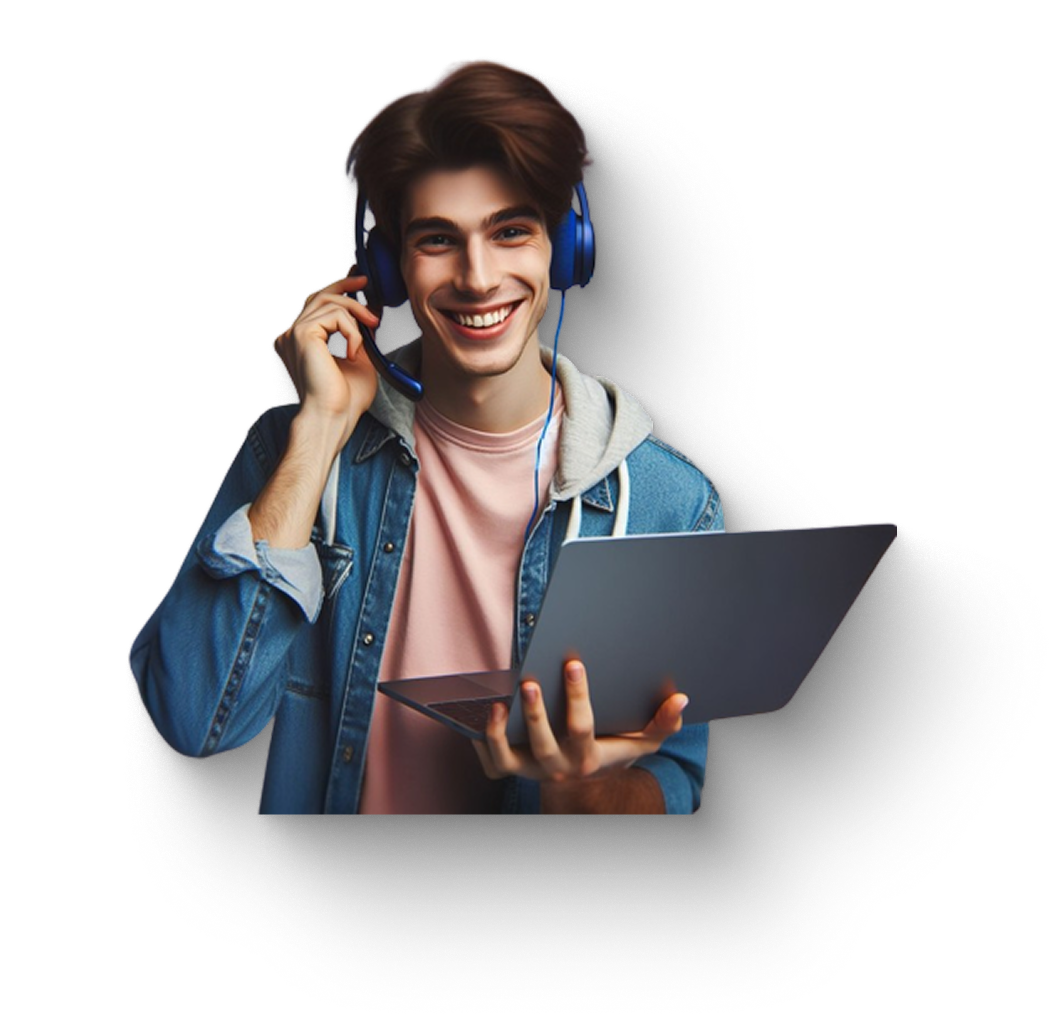
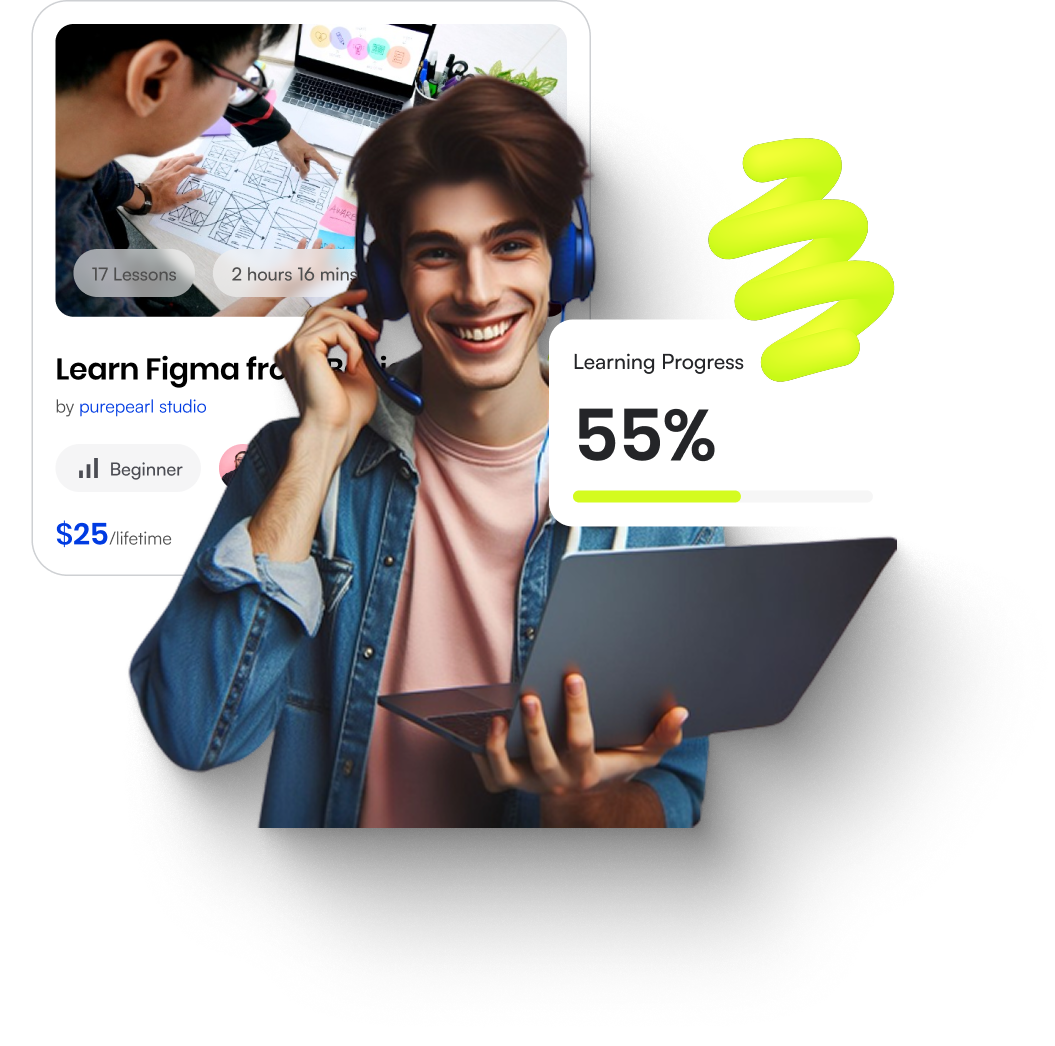
chore: added features section

diff --git a/src/app/page.tsx b/src/app/page.tsx
@@ -65,74 +65,104 @@ const Home = () => {
       <DiscoverYourPassion data={latest_courses} />
       <ExploreDiverseLearningPaths data={explore_diverse_learning_paths} />
 
-      {features.map((feature, index: number) => (
-        <section
-          key={index}
-          className={`section-sm ${index % 2 === 0 && "bg-gradient"}`}
-        >
-          <div className="container">
-            <div className="row items-center justify-between">
-              {feature.image && (
-                <div
-                  className={`mb:md-0 mb-6 md:col-5 ${
-                    index % 2 !== 0 && "md:order-2"
-                  }`}
-                >
-                  <ImageFallback
-                    src={feature.image}
-                    height={480}
-                    width={520}
-                    alt={feature.title}
-                  />
-                </div>
-              )}
+      {
+        features && features.length > 0 && (
+          <section className="section xl:py-30 xl:pb-10 overflow-hidden relative space-y-20">
+            {features.map((feature, index: number) => (
               <div
-                className={`${
-                  feature.image ? "md:col-7 lg:col-6" : "md:col-12"
-                } ${index % 2 !== 0 && feature.image && "md:order-1"}`}
-              >
-                <h2
-                  className="mb-4"
-                  dangerouslySetInnerHTML={markdownify(feature.title)}
-                />
-                <p
-                  className="mb-8 text-lg"
-                  dangerouslySetInnerHTML={markdownify(feature.content)}
-                />
-                {feature.stats && (
-                  <dl className="grid grid-cols-3 gap-4">
-                    {feature.stats.map((stat) => (
-                      <div key={stat.label}>
-                        <dt className="text-sm">{stat.label}</dt>
-                        <dd className="text-2xl font-bold">{stat.value}</dd>
-                      </div>
-                    ))}
-                  </dl>
-                )}
-                {feature.bullet_points && (
-                  <ul>
-                    {feature.bullet_points.map((bullet: string) => (
-                      <li className="relative mb-4 pl-6" key={bullet}>
-                        <FaCheck className={"absolute left-0 top-1.5"} />
-                        <span dangerouslySetInnerHTML={markdownify(bullet)} />
-                      </li>
-                    ))}
-                  </ul>
-                )}
-                {feature.button?.enable && (
-                  <Link
-                    className="btn btn-primary mt-5"
-                    href={feature.button.link}
-                  >
-                    {feature.button.label}
-                  </Link>
-                )}
-              </div>
-            </div>
-          </div>
-        </section>
-      ))}
+                key={index}
+                className="relative "
 
+              >
+                <div
+                  aria-hidden="true"
+                  className={`absolute size-72 rounded-full blur-3xl md:size-[38rem] ${index % 2 === 0
+                      ? "left-20 -top-40 bg-primary/25"
+                      : "-bottom-40 -left-32 bg-primary/30"
+                    }`}
+                />
+                <div
+                  aria-hidden="true"
+                  className={`absolute size-80 rounded-full bg-secondary/15 blur-3xl md:size-[38rem] ${index % 2 === 0 ? "-right-52 -top-20" : "-bottom-52 -right-40"
+                    }`}
+                />
+
+                <div className="container relative z-10">
+                  <div className="row items-center justify-between gap-y-12 md:gap-y-0">
+                    {feature.image && (
+                      <div
+                        className={`md:col-6 ${index % 2 === 0 ? "md:order-2" : "md:order-1"
+                          }`}
+                      >
+                        <ImageFallback
+                          src={feature.image}
+                          height={index % 2 === 0 ? 1046 : 1079}
+                          width={index % 2 === 0 ? 1055 : 880}
+                          alt={feature.title}
+                          sizes="(max-width: 767px) 100vw, 50vw"
+                          className={`mx-auto h-auto w-full object-contain ${index % 2 === 0 ? "max-w-[600px]" : "max-w-[500px]"
+                            }`}
+                        />
+                      </div>
+                    )}
+                    <div
+                      className={`${feature.image ? "md:col-6 lg:col-5" : "md:col-12"} ${index % 2 === 0 ? "md:order-1" : "md:order-2"
+                        }`}
+                    >
+                      <h2
+                        className="mb-7 text-h2-sm lg:text-h2"
+                        dangerouslySetInnerHTML={markdownify(feature.title)}
+                      />
+                      <p
+                        className="mb-10 text-lg leading-8"
+                        dangerouslySetInnerHTML={markdownify(feature.content)}
+                      />
+                      {feature.stats && (
+                        <dl className="grid max-w-md grid-cols-3 gap-6">
+                          {feature.stats.map((stat) => (
+                            <div key={stat.label}>
+                              <dd className="font-secondary text-3xl font-medium text-secondary md:text-4xl">
+                                {stat.value}
+                              </dd>
+                              <dt className="mt-1 text-base md:text-lg">
+                                {stat.label}
+                              </dt>
+                            </div>
+                          ))}
+                        </dl>
+                      )}
+                      {feature.bullet_points && (
+                        <ul className="space-y-4">
+                          {feature.bullet_points.map((bullet: string) => (
+                            <li
+                              className="relative pl-9 text-lg text-text-dark"
+                              key={bullet}
+                            >
+                              <span className="absolute left-0 top-0.5 flex size-6 items-center justify-center rounded-full bg-secondary text-white">
+                                <FaCheck className="size-3" />
+                              </span>
+                              <span dangerouslySetInnerHTML={markdownify(bullet)} />
+                            </li>
+                          ))}
+                        </ul>
+                      )}
+                      {feature.button?.enable && (
+                        <Link
+                          className="btn btn-primary mt-5"
+                          href={feature.button.link}
+                        >
+                          {feature.button.label}
+                        </Link>
+                      )}
+                    </div>
+                  </div>
+                </div>
+              </div>
+            ))}
+
+          </section>
+        )
+      }
       <Testimonials data={testimonial} />
       <CallToAction data={callToAction} />
     </>

diff --git a/src/content/homepage/_index.md b/src/content/homepage/_index.md
@@ -48,7 +48,7 @@ explore_diverse_learning_paths:
 features:
   - title: "Your Path to Professional Growth Starts Here!"
     content: "Explore our curated selection of courses tailored to enhance your capabilities and accelerate your career journey. Whether you are looking to sharpen specific skills, gain industry expertise, or embark on a new career path entirely, we have the resources you need."
-    image: ""
+    image: "/images/service-1.png"
     stats:
       - value: "12K"
         label: "Students"
@@ -58,8 +58,8 @@ features:
         label: "Creators"
 
   - title: "Create & Manage Courses Easily."
-    content: "ByteSpace supports individuals or entities in the creation, publication, and administration of educational courses."
-    image: ""
+    content: "**ByteSpace** supports individuals or entities in the creation, publication, and administration of educational courses."
+    image: "/images/service-2.png"
     bullet_points:
       - "Share Your Expertise"
       - "Monetize Your Passion"
